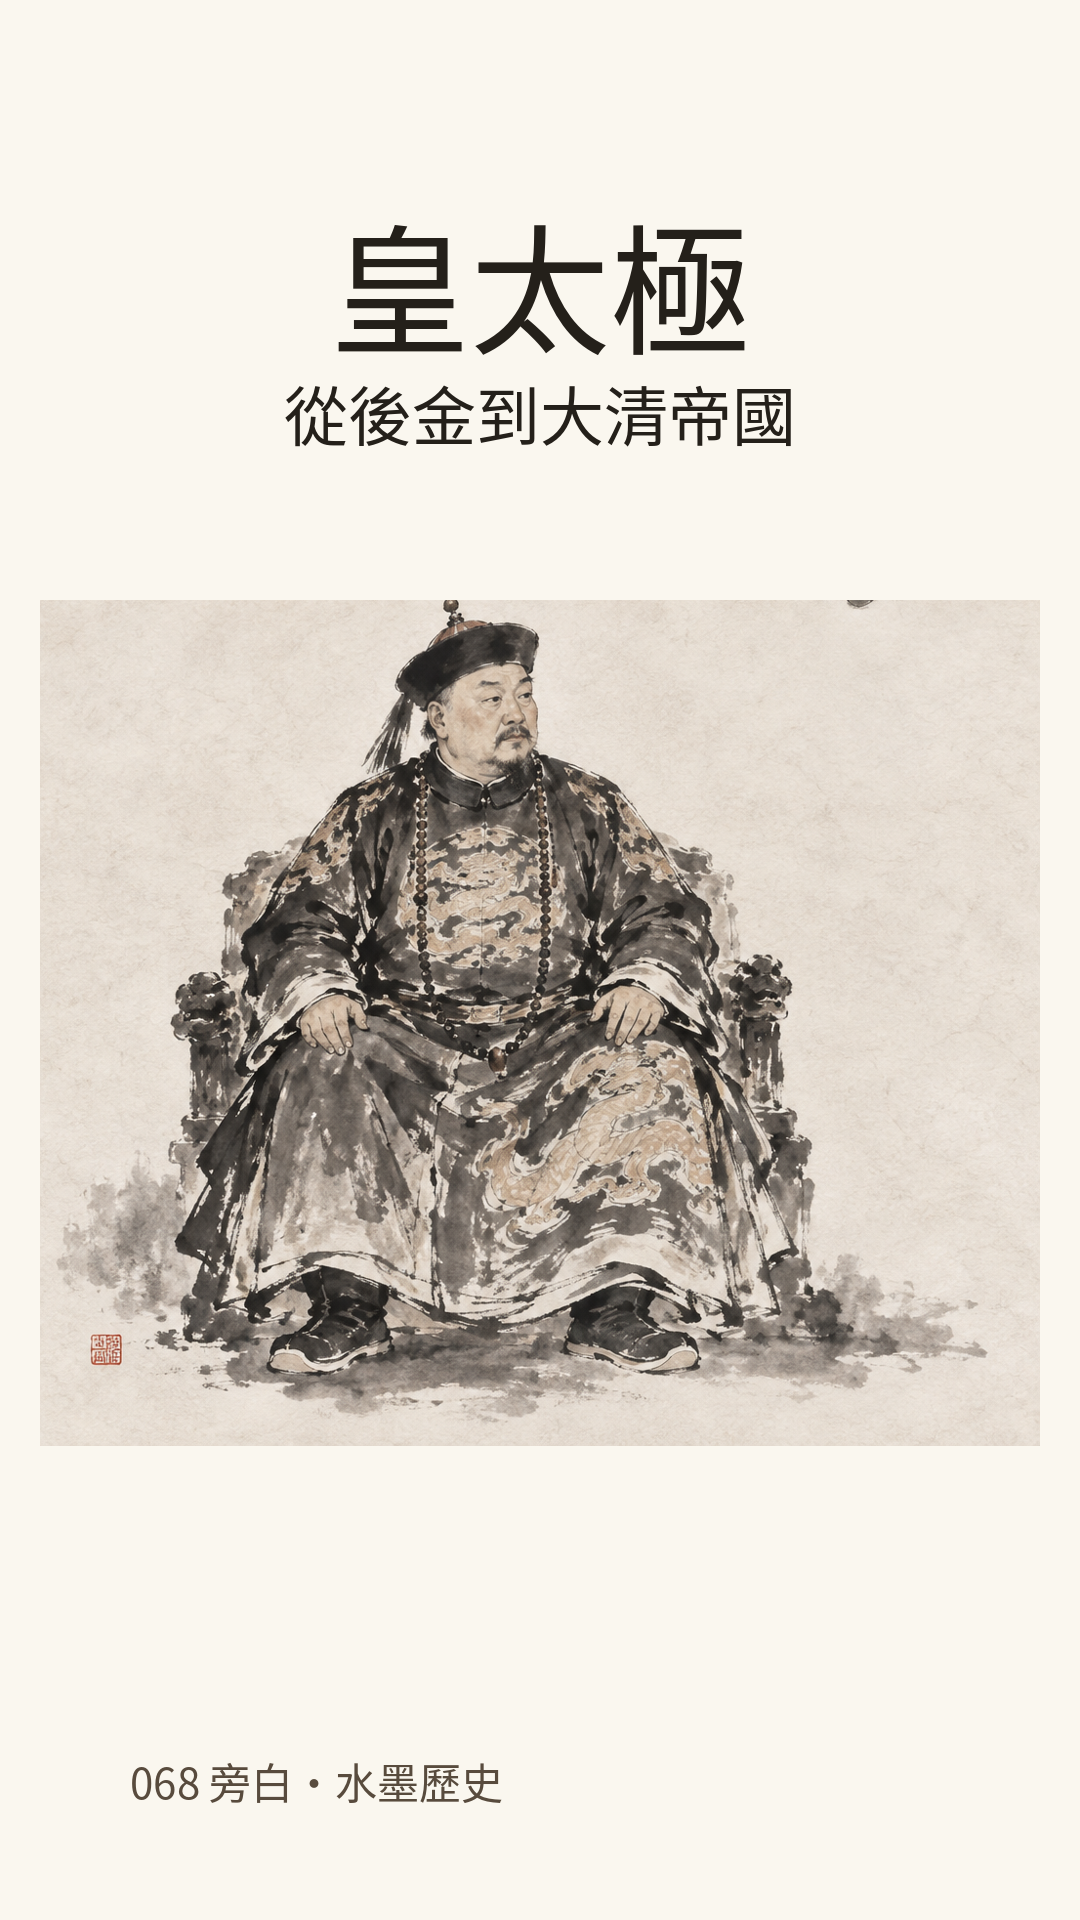
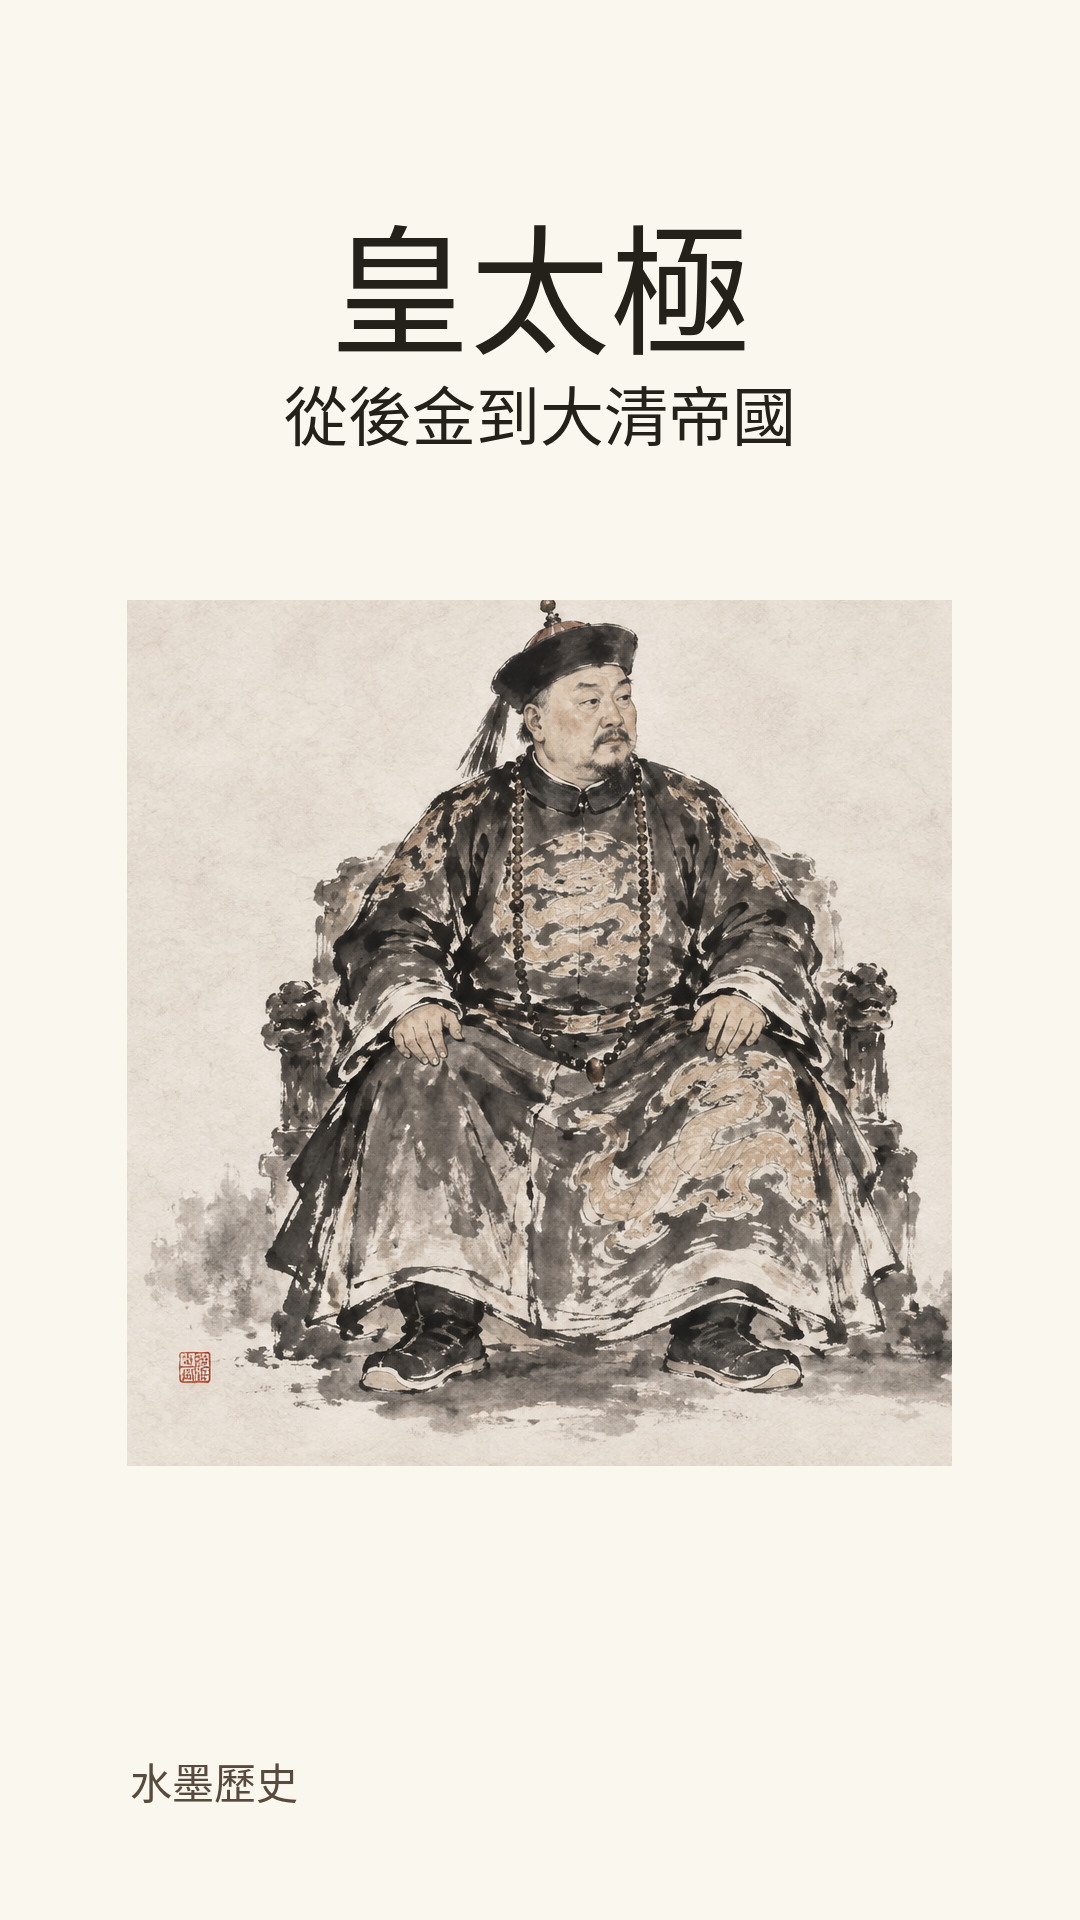
Fix final portrait crop and keep measured captions on one readable line

Changed region(s): [[0.0306, 0.3125, 0.9778, 0.7812], [0.3056, 0.9062, 0.4583, 0.9375], [0.1222, 0.9062, 0.275, 0.9375]]

diff --git a/handdraw/produce.py b/handdraw/produce.py
@@ -63,7 +63,7 @@ def align_scenes(scenes, events, word_events=False):
         if word_events:
             grouped = []
             for cue in cues:
-                if (not grouped or len(normalize(grouped[-1]['text']) + normalize(cue['text'])) > 24
+                if (not grouped or len(grouped[-1]['text'] + cue['text']) > 16
                     or grouped[-1]['text'].rstrip().endswith(('，', '。', '；', '！', '？', '：'))):
                     grouped.append(dict(cue))
                 else:
